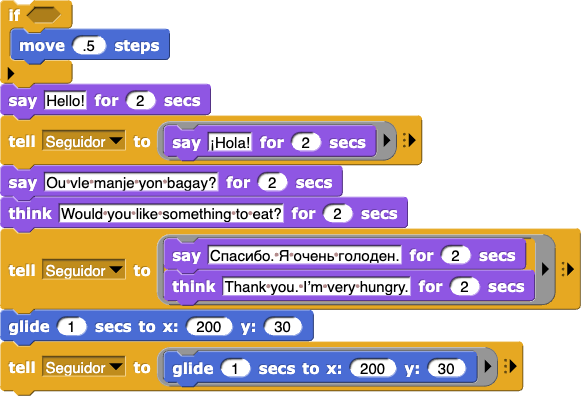
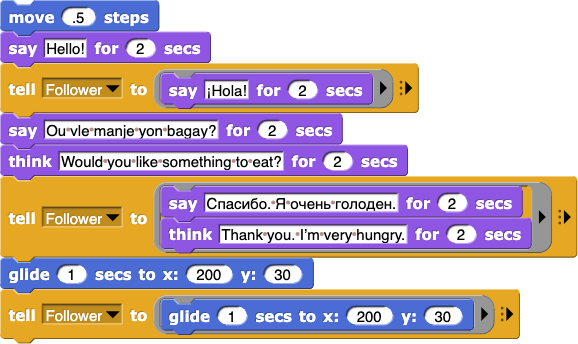
CSP - 1.3 BH self-check comments (completed)
https://docs.google.com/document/d/1d_QAbVRPG4fz9A751XruDevrnnm7m0EVTxDfuTzg_ls/edit?tab=t.0

diff --git a/cur/programming/1-introduction/5-follow-the-leader/2-sprite-interaction.html b/cur/programming/1-introduction/5-follow-the-leader/2-sprite-interaction.html
@@ -126,17 +126,17 @@ repeat until (touching (Leader)?)
                         <p>A <strong>code segment</strong> is a sequence of connected instructions that carry out a purposeful action, such as the one pictured on the left, which animates a conversation.  The instructions in the code segment are carried out in order, from top to bottom.</p>
                     </div>
                     <img class="inline" src="/bjc-r/img/1-introduction/simpledialogue-going-to-lunch.png" alt="partial script of a conversation between two sprites:
-‘partially cut off script’
-say (¡Hola!) for (2) secs
-tell (Follower) to (say (Hello!) for (2) secs)
+‘move(.5) steps
+say (¡Hello!) for (2) secs
+tell (Follower) to (say (Hola!) for (2) secs)
 say (Ou vle manje yon bagay?) for (2) secs
 think (Would you like something to eat?) for (2) secs
 tell (Follower) to (say (Спасибо. Я очень голоден.) for (2) secs; think (Thank you. I’m very hungry.) for (2) secs)
 glide (1) secs to x: (200) y: (30)
 tell (Follower) to (glide (1) secs to x: (200) y: (30))" title="partial script of a conversation between two sprites:
-‘partially cut off script’
-say (¡Hola!) for (2) secs
-tell (Follower) to (say (Hello!) for (2) secs)
+‘move(.5) steps
+say (¡Hello!) for (2) secs
+tell (Follower) to (say (Hola!) for (2) secs)
 say (Ou vle manje yon bagay?) for (2) secs
 think (Would you like something to eat?) for (2) secs
 tell (Follower) to (say (Спасибо. Я очень голоден.) for (2) secs; think (Thank you. I’m very hungry.) for (2) secs)
@@ -170,23 +170,23 @@ tell (Follower) to (glide (1) secs to x: (200) y: (30))" />
             <ol start="9">
                 <li>
                     <!-- Question 1 -->
-                    <div class="assessment-data" type="multiplechoice" identifier="When the code below is executed, which correctly describes how many times the sprite moves 10 steps and why?"
+                    <div class="assessment-data" type="multiplechoice" identifier="When the code below is executed, how many times will the sprite move 10 steps?"
                         hasinlinefeedback="true" maxchoices="1" responseIdentifier="ri1" shuffle="false">
                         <div class="prompt">
                             <div class="ap-standard">AAP-2.K.4</div>
-                            When the code below is executed, which correctly describes how many times the sprite moves 10 steps and why?<br />
+                            When the code below is executed, how many times will the sprite move 10 steps?<br />
                             <img class="indent" src="/bjc-r/img/1-introduction/1-5-2-less-than.png" alt="point in direction (90); go to x:(0) y:(0); repeat until ((x position)<(0)) {move (10) steps}" title="point in direction (90); go to x:(0) y:(0); repeat until ((x position)<(0)) {move (10) steps}" />
                         </div>
                         <div class="choice" identifier="c1">
                             <div class="text">0 times</div>
                             <div class="feedback">
-                                The sprite moves because the starting x position is not less than zero.
+                                <code>Repeat until</code> repeats until the condition is <em>true</em>, not until it's false.
                             </div>
                         </div>
                         <div class="choice" identifier="c2">
                             <div class="text">1 time</div>
                             <div class="feedback">
-                                The sprite moves more than once because the x position will always be greater than zero.
+                                The code says <code>&lt;</code>, not <code>&gt;</code>.
                             </div>
                         </div>
                         <div class="choice" identifier="c3">
@@ -198,7 +198,7 @@ tell (Follower) to (glide (1) secs to x: (200) y: (30))" />
                         <div class="choice" identifier="c4">
                             <div class="text">Forever</div>
                             <div class="feedback">
-                                Correct! The x-position will never be less than zero, so the sprite will continue to move in 10 step increments.
+                                Correct! The x position will never be less than zero, so the sprite will continue to move in 10-step increments.
                             </div>
                         </div>
                         <div class="responseDeclaration" identifier="ri1">
@@ -219,25 +219,25 @@ tell (Follower) to (glide (1) secs to x: (200) y: (30))" />
                         <div class="choice" identifier="c1">
                             <div class="text">0 times</div>
                             <div class="feedback">
-                                Correct! The sprite starts at an x-position greater than zero, so the sprite won’t move at all.
+                                Correct! The sprite starts at an x position greater than zero, so the sprite won’t move at all.
                             </div>
                         </div>
                         <div class="choice" identifier="c2">
                             <div class="text">1 time</div>
                             <div class="feedback">
-                                The sprite does not move because it starts at an x-position greater than zero.
+                                <code>Repeat until</code> tests its condition before running the enclosed script.
                             </div>
                         </div>
                         <div class="choice" identifier="c3">
                             <div class="text">10 times</div>
                             <div class="feedback">
-                                The sprite does not move because it starts at an x-position greater than zero.
+                                The sprite does not move because it starts at an x position greater than zero.
                             </div>
                         </div>
                         <div class="choice" identifier="c4">
                             <div class="text">Forever</div>
                             <div class="feedback">
-                                The sprite does not move because it starts at an x-position greater than zero.
+                                The sprite does not move because it starts at an x position greater than zero.
                             </div>
                         </div>
                         <div class="responseDeclaration" identifier="ri2">

diff --git a/cur/programming/1-introduction/4-privacy/3-tanya-rider.html b/cur/programming/1-introduction/4-privacy/3-tanya-rider.html
@@ -28,46 +28,8 @@
                         <li>Position A: The right to privacy isn't just an abstract principle. Sometimes for example, people disappear to hide from people who might hurt them. When a person is reported missing, the police can't assume that's the whole story; they have to follow the rules even if that delays some rescues. Also, maybe that person is trying to avoid the police!</li>
                         <li>Position B: The police should be able to check the location of a phone right away to search for a missing person, perhaps with a rule that they can't use the information for any other purpose, or disclose it to anyone, without permission from a court.</li>
                     </ul>
-                    Is there a third policy that protects <em>everyone's</em> needs?
                 </li>
-                
-                <li>
-                    <!-- Question 1 -->
-                    <div class="assessment-data" type="multiplechoice" identifier="Why was there a delay in using cell phone records to locate the lost person, Tanya Rider?"
-                        hasinlinefeedback="true" maxchoices="1" responseIdentifier="ri1" shuffle="true">
-                        <div class="prompt">
-                            Why was there a delay in using cell phone records to locate the lost person, Tanya Rider?
-                        </div>
-                        <div class="choice" identifier="c1">
-                            <div class="text">The technology to trace cell phone records was not yet available.</div>
-                            <div class="feedback">
-                                Please review pages 1 and 2 of the story in <em>Blown to Bits</em>.
-                            </div>
-                        </div>
-                        <div class="choice" identifier="c2">
-                            <div class="text">There was a legal and privacy issue regarding access to her cell phone records.</div>
-                            <div class="feedback">
-                                Correct! Access to location data was not provided due to legal and privacy issues.
-                            </div>
-                        </div>
-                        <div class="choice" identifier="c3">
-                            <div class="text">The cell phone records were accidentally deleted.</div>
-                            <div class="feedback">
-                                Please review pages 1 and 2 of the story in <em>Blown to Bits</em>.
-                            </div>
-                        </div>
-                        <div class="choice" identifier="c4">
-                            <div class="text">The police did not consider cell phone records as a reliable source.</div>
-                            <div class="feedback">
-                                Please review pages 1 and 2 of the story in <em>Blown to Bits</em>.
-                            </div>
-                        </div>
-                        <div class="responseDeclaration" identifier="ri1">
-                            <div class="correctResponse" identifier="c2"></div>
-                        </div>
-                    </div>
-                
-                </li>
+                <li><img class="inline" src="/bjc-r/img/icons/talk-with-your-partner.png" alt="Talk with Your Partner" title="Talk with Your Partner" />Is there a third policy that protects <em>everyone's</em> needs?</li>
                 
             </ol>
         </div>

diff --git a/cur/programming/1-introduction/4-privacy/1-your-image-in-the-cloud.html b/cur/programming/1-introduction/4-privacy/1-your-image-in-the-cloud.html
@@ -111,7 +111,7 @@
         </div>
 
         <div class="ap-standard">IOC-2.A.7</div>
-        <p>"What does organization X know about you?" is kind of a trick question because many these companies and institutions <em>share the information they collect about you</em>. This kind of data sharing is important&mdash;and problematic&mdash;because different kinds of information, while possibly unimportant by themselves, can become a serious privacy problem when combined. For example, your cell phone carrier knows every place you go and Google knows what people or businesses live at every address; in combination, these two kinds of information can reveal whether you've visiting a divorce lawyer, an AIDS doctor, or other possibilities that could be embarrassing (or worse) if revealed.</p>
+        <p>"What does organization X know about you?" is kind of a trick question because many of these companies and institutions <em>share the information they collect about you</em>. This kind of data sharing is important&mdash;and problematic&mdash;because different kinds of information, while possibly unimportant by themselves, can become a serious privacy problem when combined. For example, your cell phone carrier knows every place you go and Google knows what people or businesses live at every address; in combination, these two kinds of information can reveal whether you've visiting a divorce lawyer, an AIDS doctor, or other possibilities that could be embarrassing (or worse) if revealed.</p>
         <div class="endnote">There are even companies whose sole business is to collect information about you from other companies, large or small, that you use online.  (One of the authors looked himself up at Acxiom, one of those companies, and <a href="/bjc-r/img/2-complexity/brian-acxiom.pdf" target="_blank" title="Brian according to Acxiom"> here's what he found</a>. The information circled in red is incorrect.)  But the biggest data gatherers are Google, cell phone carriers, Facebook, and governments, such as the US government or the Chinese government.</div>
         
         <div class="forYouToDo">

diff --git a/cur/programming/1-introduction/5-follow-the-leader/1-following-sprites.html b/cur/programming/1-introduction/5-follow-the-leader/1-following-sprites.html
@@ -56,7 +56,7 @@
 
 		<div class="atworkFullWidth">
 			<!--<img class="noshadow imageRight" height="200px" src="/bjc-r/img/atwork/Diana_Macias.jpg" alt="photo of Diana Macias" title="photo of Diana Macias" />-->
-			<p>Diana Macias, an American born of Mexican parents, manages a team of 20 engineers that design visual elements for Twitter (GIFs, stickers, and polls). She is the co-founder of Twitter Able, a group at Twitter for disabled employees and allies, and has served as the co-chair of Twitter's Latinx group, Twitter Alas. Macias has a B.S. in Computer Science and Mathematics from California State University, East Bay and over 15 years of experience in software development with a focus on user experience.</p>
+			<p>Diana Macias, an American born of Mexican parents, co-founded Twitter Able, a group at X (formerly known as Twitter) for disabled employees and allies, and has served as the co-chair of Twitter's Latinx group, Twitter Alas. Macias has a B.S. in Computer Science and Mathematics from California State University, East Bay and over 15 years of experience in software development with a focus on user experience.</p>
 			<p><a href="https://www.lanacion.com.ar/tecnologia/los-20-latinos-mas-influyentes-en-tecnologia-de-2017-segun-cnet-nid2066888/" title="Article: Los 20 Latinos Más Influyentes en Tecnología" target="_blank">Article: Los 20 Latinos Más Influyentes en Tecnología</a> (<a href="https://www-lanacion-com-ar.translate.goog/tecnologia/los-20-latinos-mas-influyentes-en-tecnologia-de-2017-segun-cnet-nid2066888/?_x_tr_sl=es&_x_tr_tl=en&_x_tr_hl=en&_x_tr_pto=wapp" title="Article: The 20 most influential Latinos in technology" target="_blank">English</a>)</p>
 		</div>
 

diff --git a/cur/programming/1-introduction/4-privacy/4-privacy-affected.html b/cur/programming/1-introduction/4-privacy/4-privacy-affected.html
@@ -130,7 +130,7 @@
                         <div class="choice" identifier="c2">
                             <div class="text">Data related to the visitor's physical health</div>
                             <div class="feedback">
-                                Data related to physical health is typically not collected by general websites without someone’s knowledge.
+                                Data related to physical health is typically not collected by general websites without someone’s knowledge. However, someone's browsing history, which may include information about web searches regarding their health, might be.
                             </div>
                         </div>
                         <div class="choice" identifier="c3">
